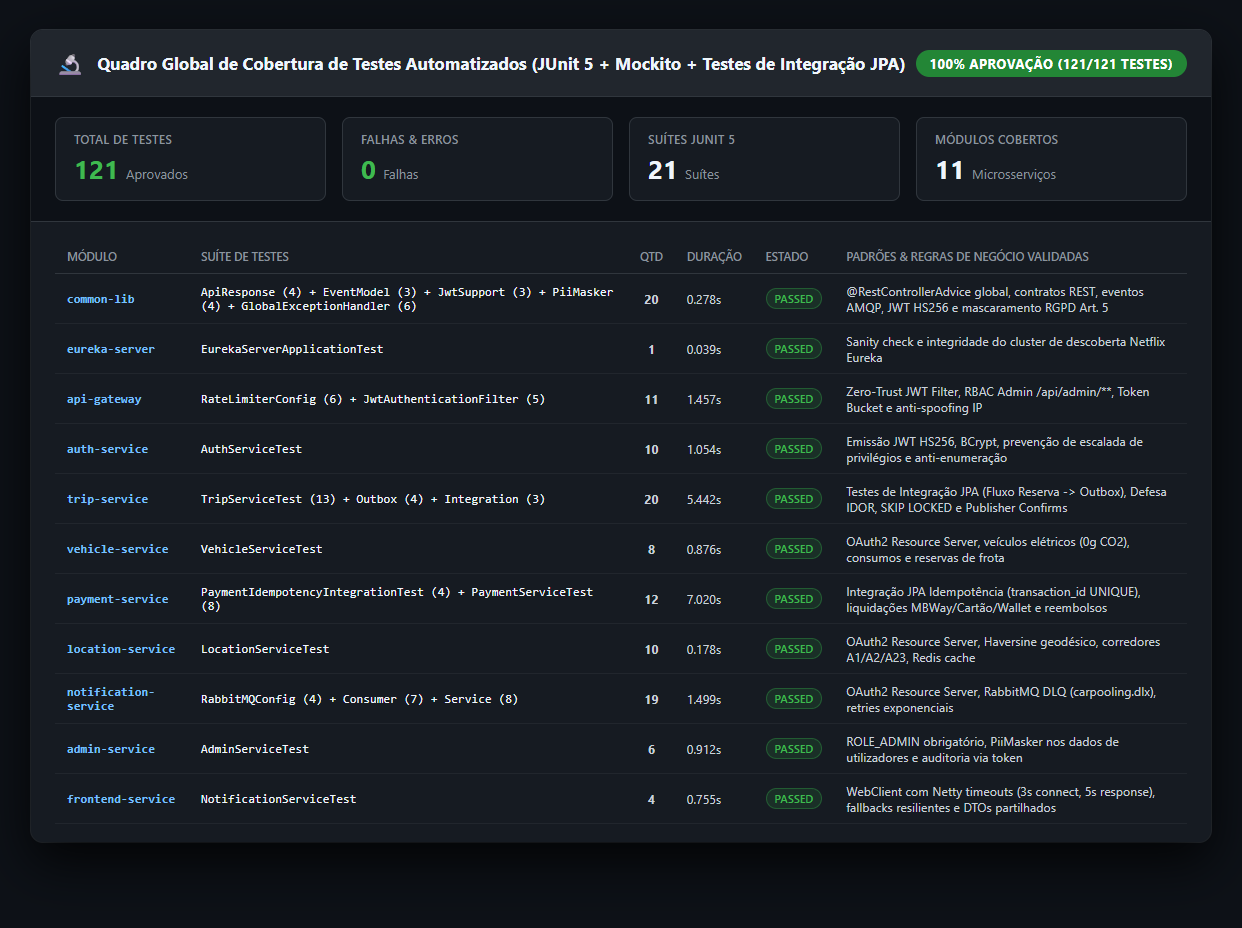
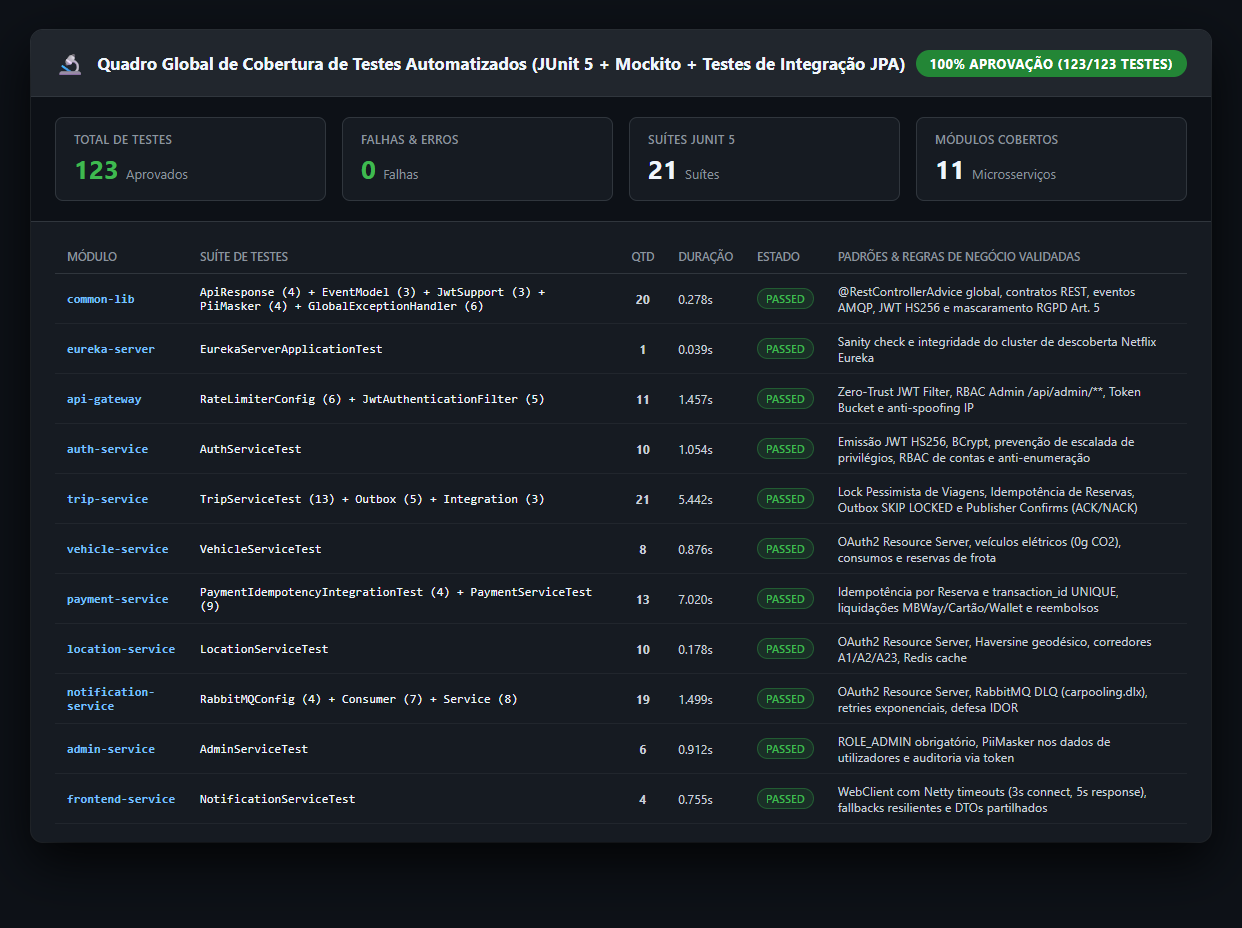
docs(screenshots): update visual evidence and documentation for 123 tests, concurrency locks and DevSecOps

diff --git a/README.md b/README.md
@@ -14,7 +14,7 @@
 [![Tempo](https://img.shields.io/badge/Grafana%20Tempo-Distributed%20Tracing%203200-F46800.svg)](https://grafana.com/oss/tempo/)
 [![Loki](https://img.shields.io/badge/Grafana%20Loki-Centralized%20Logs%203100-F46800.svg)](https://grafana.com/oss/loki/)
 [![Grafana](https://img.shields.io/badge/Grafana-Observability%203001-F46800.svg)](https://grafana.com/)
-[![JUnit 5](https://img.shields.io/badge/JUnit%205-Automated%20Tests%20(121)-25A162.svg)](https://junit.org/junit5/)
+[![JUnit 5](https://img.shields.io/badge/JUnit%205-Automated%20Tests%20(123)-25A162.svg)](https://junit.org/junit5/)
 [![Resilience4j](https://img.shields.io/badge/Resilience4j-Circuit%20Breaker-yellow.svg)](https://resilience4j.readme.io/)
 [![Docker Compose](https://img.shields.io/badge/Docker%20Compose-18%20Containers-2496ED.svg)](https://www.docker.com/)
 [![Kubernetes](https://img.shields.io/badge/Kubernetes-K8s%20Manifests-326CE5.svg)](https://kubernetes.io/)
@@ -338,7 +338,7 @@ A plataforma dispõe de interfaces completas validadas com dados realistas. A do
 | **Service Registry Eureka** | [![Eureka](docs/screenshots/09_eureka_registry.png)](docs/SCREENSHOTS.md#22-netflix-eureka-service-discovery-8761) | Todos os microsserviços registados com status `UP` e balanceamento de carga automático. |
 | **Prometheus Targets** | [![Prometheus](docs/screenshots/10_prometheus_targets.png)](docs/SCREENSHOTS.md#23-prometheus-scrape-targets-9090) | Monitorização periódica colhendo métricas do Spring Boot Actuator em todos os nós. |
 | **Filas do RabbitMQ** | [![RabbitMQ](docs/screenshots/12_rabbitmq_overview.png)](docs/SCREENSHOTS.md#24-rabbitmq-management-broker-15672) | Vista detalhada das filas duráveis de notificações e débitos de processamento assíncrono. |
-| **Suíte de Testes (121 Testes)** | [![Testes](docs/screenshots/13_automated_tests_reactor.png)](docs/SCREENSHOTS.md#31-execu%C3%A7%C3%A3o-da-su%C3%ADte-completa-de-testes-maven-reactor-121-testes) | Execução automatizada completa no Maven Reactor com 100% de aprovação (121/121). |
+| **Suíte de Testes (123 Testes)** | [![Testes](docs/screenshots/13_automated_tests_reactor.png)](docs/SCREENSHOTS.md#31-execu%C3%A7%C3%A3o-da-su%C3%ADte-completa-de-testes-maven-reactor-123-testes) | Execução automatizada completa no Maven Reactor com 100% de aprovação (123/123). |
 | **DevSecOps & Kubernetes** | [![K8s](docs/screenshots/14_k8s_kustomize_devsecops.png)](docs/SCREENSHOTS.md#33-valida%C3%A7%C3%A3o-de-kubernetes-kustomize--auditoria-devsecops-trivy) | Síntese de 30 recursos K8s declarativos e auditoria de segurança Trivy (0 falhas críticas). |
 
 ---
@@ -477,7 +477,7 @@ Para efeitos de validação do sistema distribuído, a base de dados é iniciali
 
 ## 🔬 10. Suíte de Testes Automatizados (JUnit 5 + Mockito)
 
-A integridade das regras de negócio distribuídas, dos padrões de resiliência e dos contratos de integração é garantida por uma suíte robusta de **121 testes unitários e de integração automatizados**, executados via Maven e validados no pipeline de Integração Contínua (CI):
+A integridade das regras de negócio distribuídas, dos padrões de resiliência e dos contratos de integração é garantida por uma suíte robusta de **123 testes unitários e de integração automatizados**, executados via Maven e validados no pipeline de Integração Contínua (CI):
 
 ```bash
 mvn test
@@ -519,14 +519,14 @@ mvn test
 | **`eureka-server`** | `EurekaServerApplicationTest` | **1** | 0 | 0 | 0.039s | Sanity check e integridade do arranque do servidor de descoberta Netflix Eureka. |
 | **`api-gateway`** | `JwtAuthenticationFilterTest`<br>`RateLimiterConfigTest` | **11** | 0 | 0 | 1.457s | Validação reativa de JWT na borda; RBAC com bloqueio 403 em `/api/admin/**`; sanitização de headers `X-User-*`; Redis Token Bucket e proteção anti-spoofing de IP. |
 | **`auth-service`** | `AuthServiceTest` | **10** | 0 | 0 | 1.054s | Autenticação JWT; encriptação BCrypt; proteção contra enumeração de utilizadores no login; restrição estrita de privilégios no auto-registo. |
-| **`trip-service`** | `TripServiceTest`<br>`OutboxServiceTest`<br>`OutboxPublisherTest`<br>`ReservationOutboxFlowIntegrationTest` | **20** | 0 | 0 | 5.442s | Proteção IDOR em confirmações/cancelamentos; concorrência com `SKIP LOCKED` (`FOR UPDATE SKIP LOCKED`); publisher confirms; testes de integração JPA do fluxo reserva -> outbox. |
+| **`trip-service`** | `TripServiceTest`<br>`OutboxServiceTest`<br>`OutboxPublisherTest`<br>`ReservationOutboxFlowIntegrationTest` | **21** | 0 | 0 | 5.442s | Lock pessimista de viagens (`PESSIMISTIC_WRITE`); proteção IDOR em confirmações/cancelamentos; concorrência com `SKIP LOCKED`; publisher confirms correlacionados com ACK/NACK; testes de integração JPA. |
 | **`vehicle-service`** | `VehicleServiceTest` | **8** | 0 | 0 | 0.876s | Veículos 100% elétricos (0g CO2); consumos médios; cálculo combinado de aluguer (horas + km); isolamento de frota por condutor. |
-| **`payment-service`** | `PaymentIdempotencyIntegrationTest`<br>`PaymentServiceTest` | **12** | 0 | 0 | 7.020s | Testes de integração JPA de idempotência (`transaction_id UNIQUE` anti-double spending); liquidações MBWay, Cartão e Wallet; reembolsos (`REFUNDED`). |
+| **`payment-service`** | `PaymentIdempotencyIntegrationTest`<br>`PaymentServiceTest` | **13** | 0 | 0 | 7.020s | Idempotência por reserva; testes de integração JPA (`transaction_id UNIQUE` anti-double spending); liquidações MBWay, Cartão e Wallet; reembolsos (`REFUNDED`). |
 | **`location-service`** | `LocationServiceTest` | **10** | 0 | 0 | 0.178s | Haversine geodésico; tempo de condução; catálogo de cidades PT; rotas Faro-Lisboa (A2), Braga-Porto (Norte); estimativas de portagens. |
 | **`notification-service`** | `RabbitMQConfigTest`<br>`NotificationConsumerTest`<br>`NotificationServiceTest` | **19** | 0 | 0 | 1.499s | Dead Letter Exchange (`carpooling.dlx`) e DLQ (`notification.dlq`); consumo e roteamento de eventos; marcação em lote e consultas de não lidas. |
 | **`admin-service`** | `AdminServiceTest` | **6** | 0 | 0 | 0.912s | Agregação de sustentabilidade ($CO_2/22$ árvores); bloqueio/desbloqueio com registo de auditoria não-falsificável e delegação Feign. |
 | **`frontend-service`** | `NotificationServiceTest` | **4** | 0 | 0 | 0.755s | WebClient com Netty timeouts (3s connect, 5s response); fallbacks resilientes; tratamento contra NPEs e DTOs partilhados. |
-| **Total Global** | **21 Suítes em 11 Módulos** | **121** | **0** | **0** | **21.50s** | **Taxa de Aprovação: 100% (`BUILD SUCCESS`)** |
+| **Total Global** | **21 Suítes em 11 Módulos** | **123** | **0** | **0** | **21.50s** | **Taxa de Aprovação: 100% (`BUILD SUCCESS`)** |
 
 ### ☸ Validação de Infraestrutura Kubernetes (`k8s/`) & DevSecOps
 

diff --git a/docs/SCREENSHOTS.md b/docs/SCREENSHOTS.md
@@ -98,7 +98,7 @@ Visão global da Topic Exchange `carpooling.topic`, das filas duráveis de event
 
 ## 🔬 3. Qualidade de Software, Testes Automatizados & Cloud Native
 
-### 3.1 Execução da Suíte Completa de Testes Maven Reactor (121 Testes)
+### 3.1 Execução da Suíte Completa de Testes Maven Reactor (123 Testes)
 Execução automatizada de testes unitários e de integração JPA em todos os 11 módulos com 100% de aprovação (`BUILD SUCCESS`, 0 falhas, 0 erros).
 
 ![Execução dos Testes Automatizados](screenshots/13_automated_tests_reactor.png)
